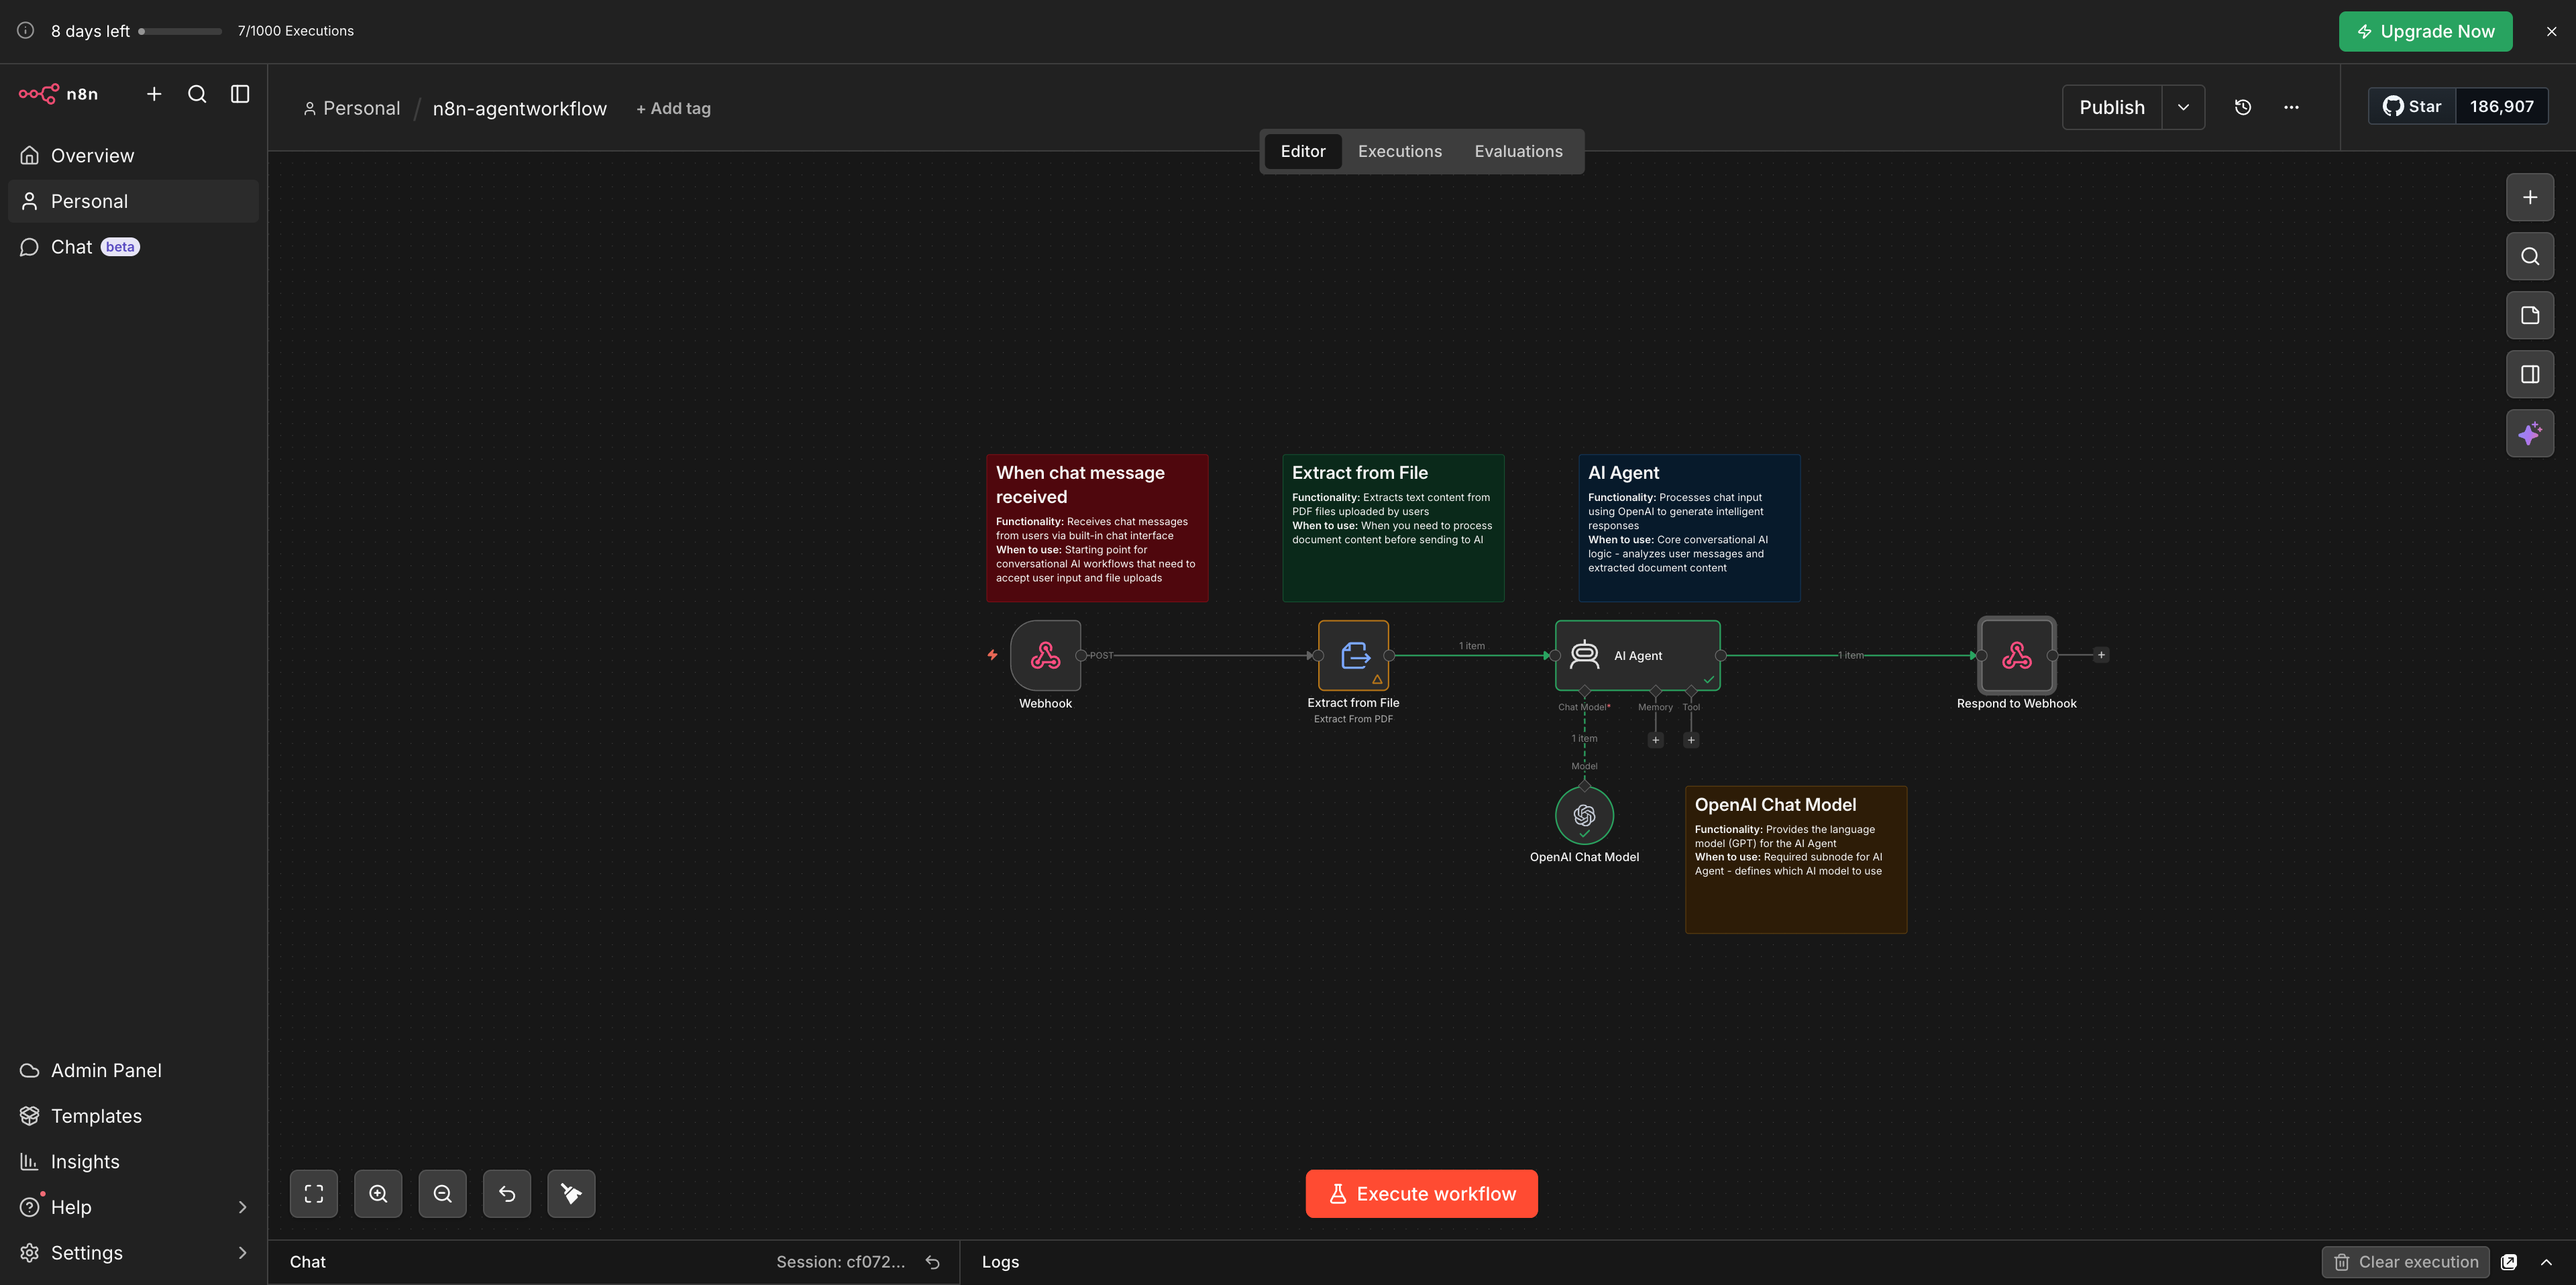
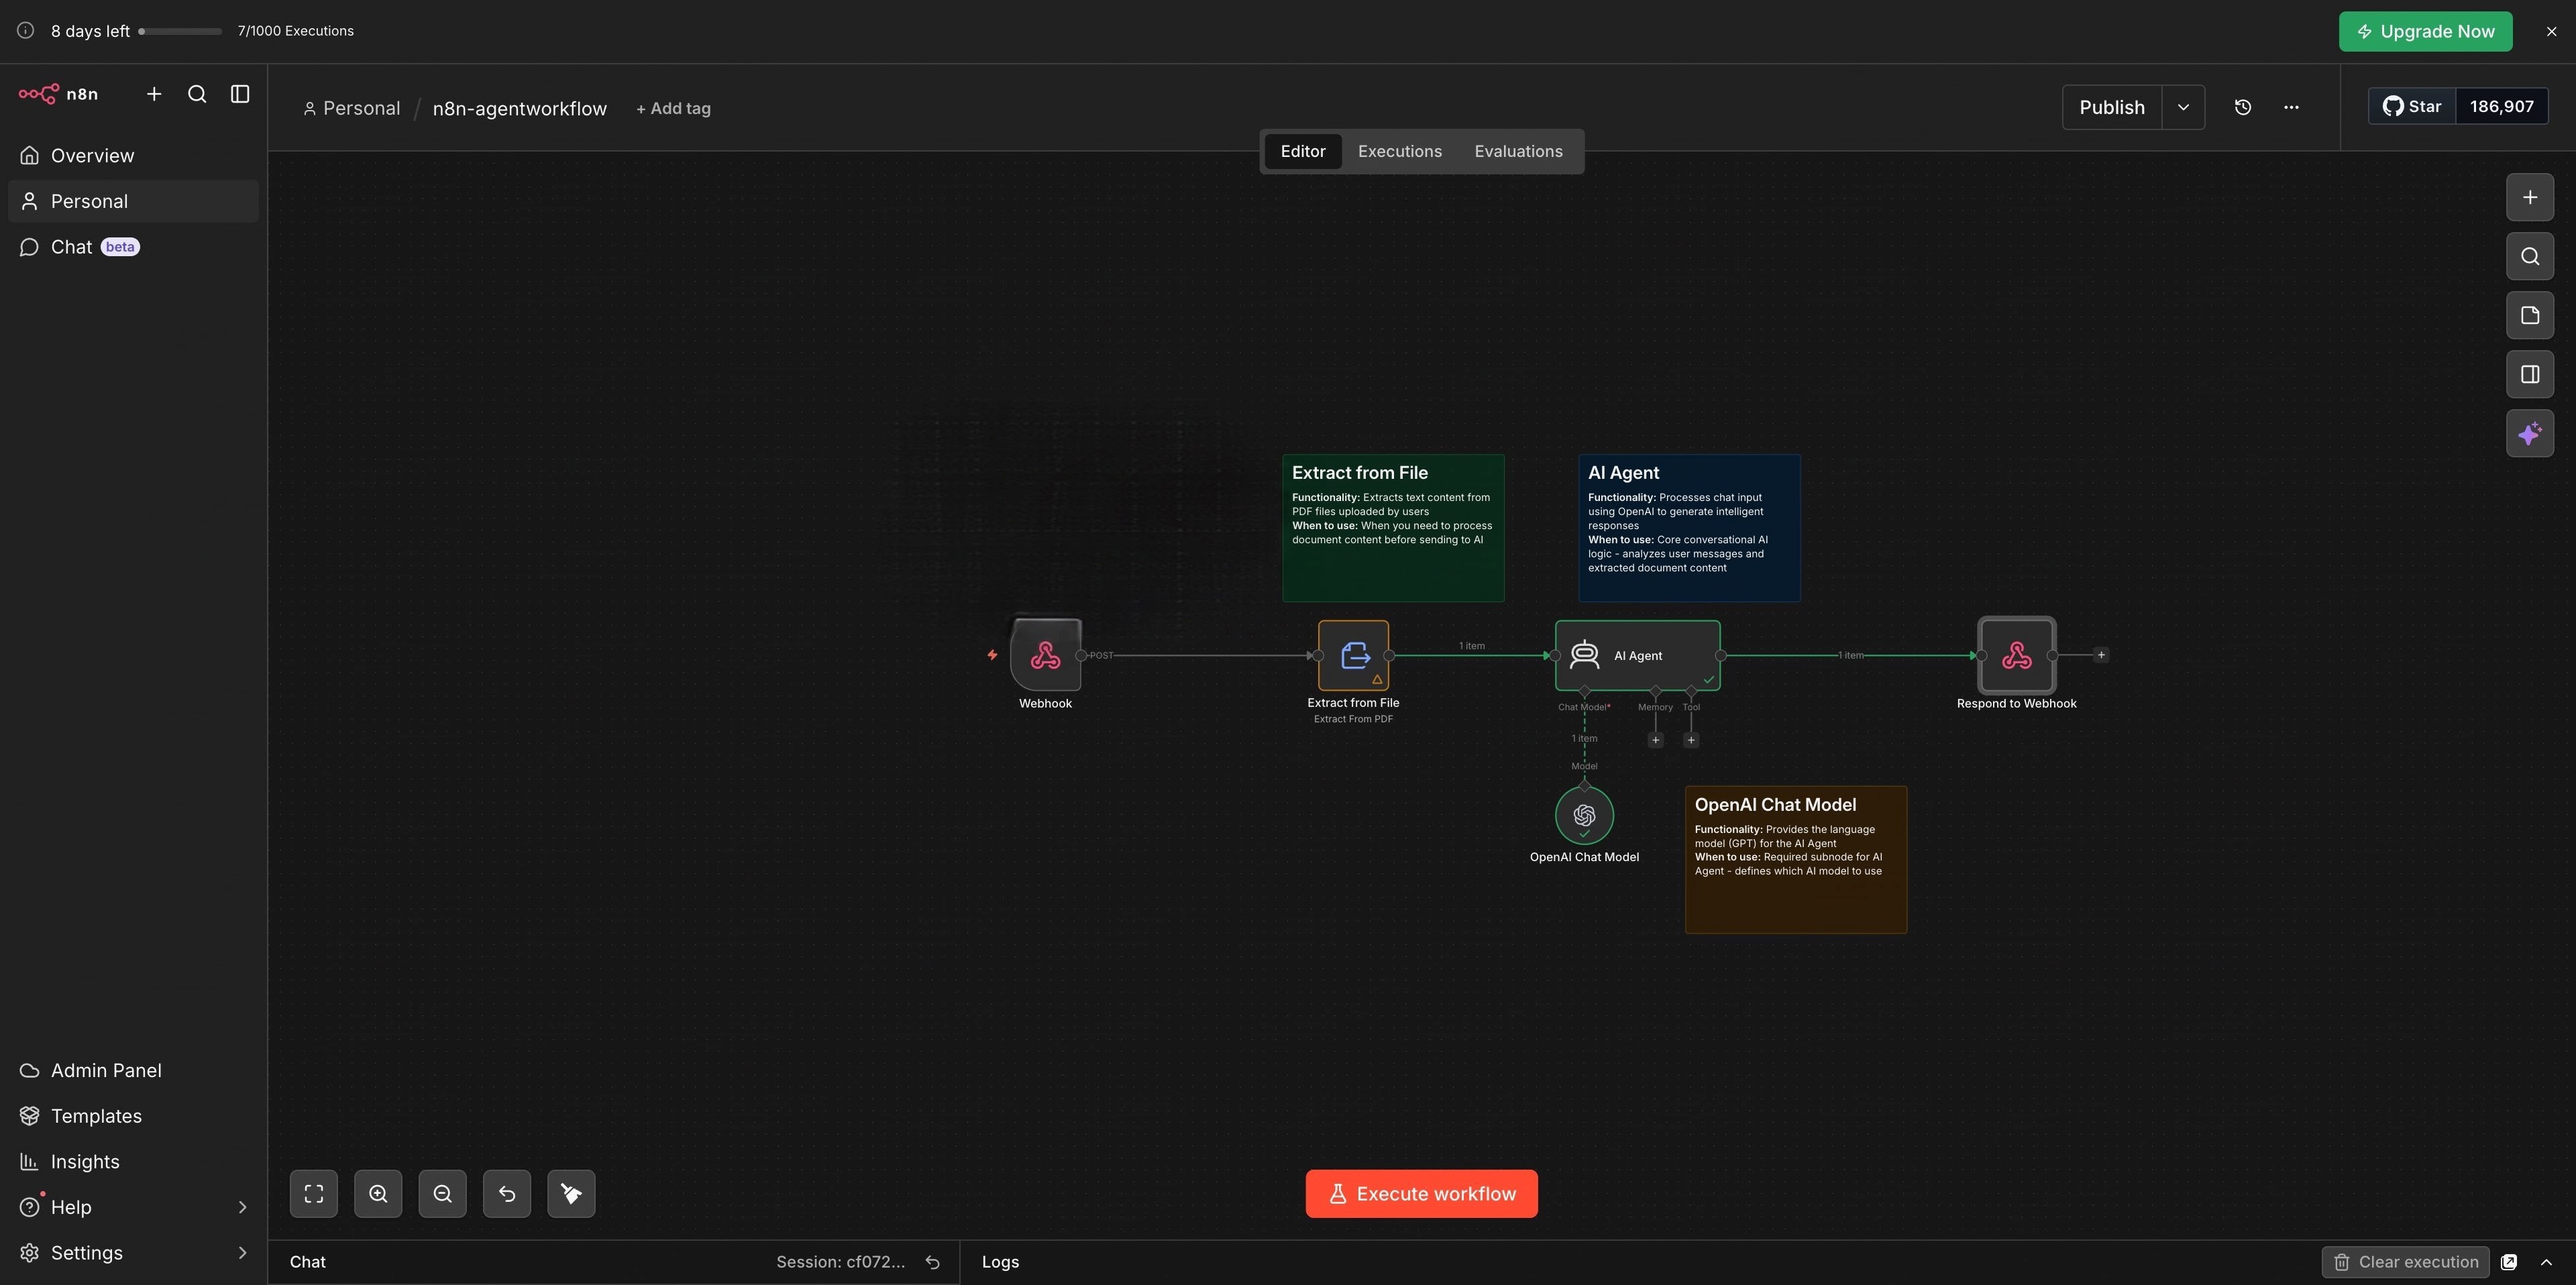
issues of labs solve

diff --git a/Cohort-Labs/cohort-10/week-1-intro-agents/1.1 - n8n-agent/readme.md b/Cohort-Labs/cohort-10/week-1-intro-agents/1.1 - n8n-agent/readme.md
@@ -111,7 +111,7 @@ Every node should be linked with a visible line. If anything looks disconnected,
 
 **Step 4. Add your OpenAI API key.**
 
-Click the **"OpenAI Chat Model"** node. In the settings panel, click **"Credential"** → **"Create New Credential"** → paste your API key → Save.
+Click the **"OpenAI Chat Model"** node. In the Parameters panel, click **"Credential"** → **"Create New Credential"** → paste your API key → Save.
 
 n8n encrypts and stores it. You won't need to paste it again across any of the labs.
 
@@ -530,20 +530,16 @@ specific elements:
 ```
 Here's a comprehensive contract analysis table based on the provided Kaseya Master Agreement:
 
-| Key Term                    | Description                                                                     | Location in Contract |
-|------------------------------|-----------------------------------------------------------------------------------|------------------------|
-| Service Provider Name       | "Kaseya US, LLC" for US customers; other entities per Exhibit A.                | Exhibit A, p. 1      |
-| Customer Name               | The entity purchasing under this Agreement, per registration.                   | Section 1, p. 1      |
-| Termination - For Cause     | Kaseya may terminate for uncured non-payment (10 days) or violating Section 2.  | Section 9, p. 12     |
-| Termination - Without Cause | Either party may terminate anytime, without cause, on 30 days' written notice.  | Section 9, p. 12     |
-| Termination - Fees          | Trailing Subscription payments remain due through expiration.                   | Section 9, p. 12     |
-| Contract Term               | Commences on acceptance; continues until terminated under Section 9.            | Section 9, p. 11     |
-| Renewal                     | Committed Service Terms auto-renew unless 30 days' non-renewal notice is given. | Section 9, p. 11     |
-| Payment Terms               | Charges are billed per Kaseya's own records for Products ordered.               | Section 6, p. 8      |
-| Late Fees                   | Balances over 30 days overdue accrue interest at 2.0% per month.                | Section 6, p. 8      |
+| Key Term                       | Description                                                                                                                                                                                                 | Location in Contract (Section/Page) |
+|--------------------------------|-------------------------------------------------------------------------------------------------------------------------------------------------------------------------------------------------------------|-------------------------------------|
+| Service Provider Name          | "Kaseya US, LLC" (for customers in the United States) and other entities for different countries as specified in Exhibit A.                                                                                 | Exhibit A, Page 1                   |
+| Customer Name                  | The entity making purchases under this Agreement, as specified by the customer during the registration process.                                                                                             | Section 1, Page 1                   |
+| Termination Clauses            | **For-Cause Termination:** "Kaseya may terminate this Agreement... for: (i) non-payment that is not cured within ten (10) days after notice; or (ii) your violation of Section 2 (Use of Products and Restrictions)." <br> **Without-Cause Termination:** "Either Party may terminate this Agreement, at any time, without cause, upon 30 calendar days written notice." <br> **Termination Fees:** "You are required to continue to make payments for a Trailing Subscription until its expiration." | Section 9, Page 12                  |
+| Contract Term/Duration         | "This Agreement will commence upon the earlier of: (i) your acceptance of this Agreement... and then will continue until terminated in accordance with the provisions of this section." <br> "Committed Service Terms set forth in Orders will automatically renew for additional Committed Service Terms equal in length to the expiring Committed Service Term unless either party gives notice to the other of non-renewal at least thirty (30) days prior to the end of the relevant Committed Service Term." | Section 9, Page 11                  |
+| Payment Terms                  | "You agree to pay all charges applicable to the Products ordered by you including... Fees and payments will be calculated by us based on records maintained by us." <br> "If you are more than thirty (30) days overdue on payments, you agree that Kaseya has the right to... charge interest/late fees at the rate of 2.0% per month." | Section 6, Page 8                   |
 
-This table summarizes the key terms of the Kaseya Master Agreement — split into individually
-scannable rows with location references — so each clause is easy to find at a glance.
+This table summarizes the key terms of the Kaseya Master Agreement, providing direct quotes
+and plain-language summaries for clarity, along with specific locations for easy reference.
 ```
 
 #### ✅ Why This Works
@@ -648,7 +644,7 @@ This one needs a small explanation. Browsers have a built-in safety rule: by def
 
 > If your app ever stops responding with no clear reason, and n8n shows no activity, this permission setting is almost always the cause. It's the most common invisible blocker when connecting a web app to an outside service.
 
-After saving, you'll see your webhook address appear in the settings panel. It looks something like:
+After saving, you'll see your webhook address appear in the parameters panel. It looks something like:
 
 ```
 https://your-instance.app.n8n.cloud/webhook-test/your-unique-id
